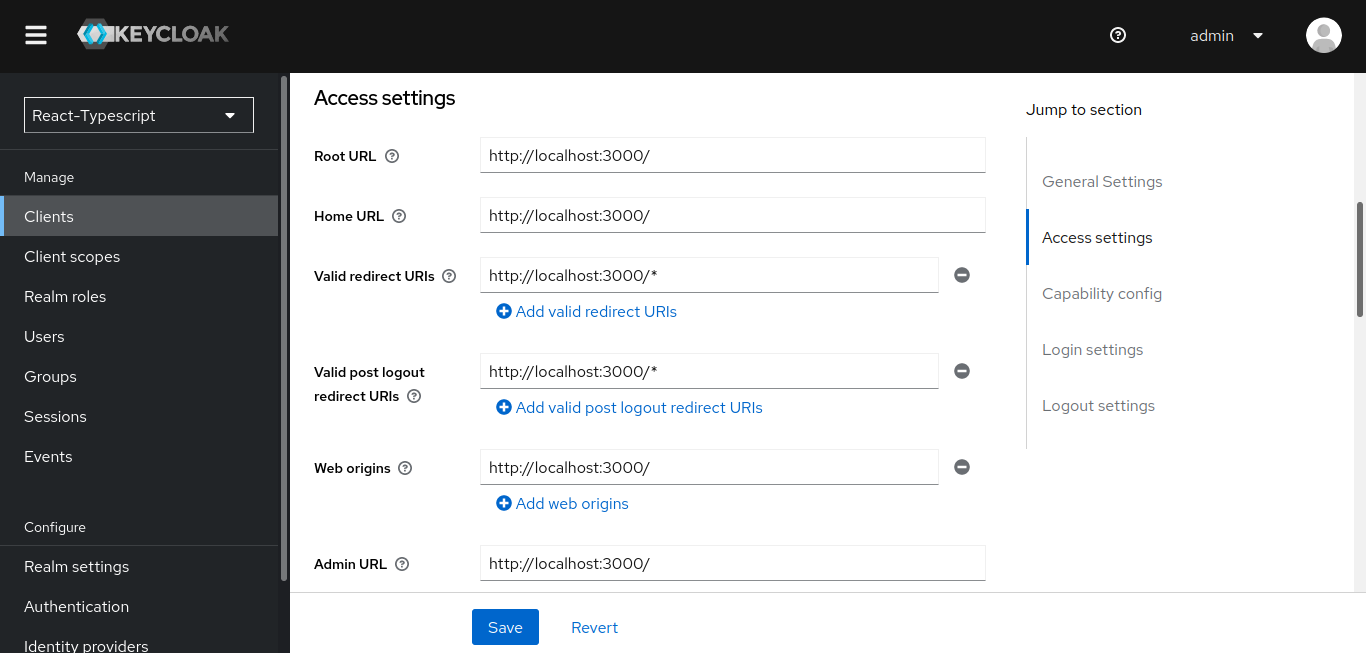
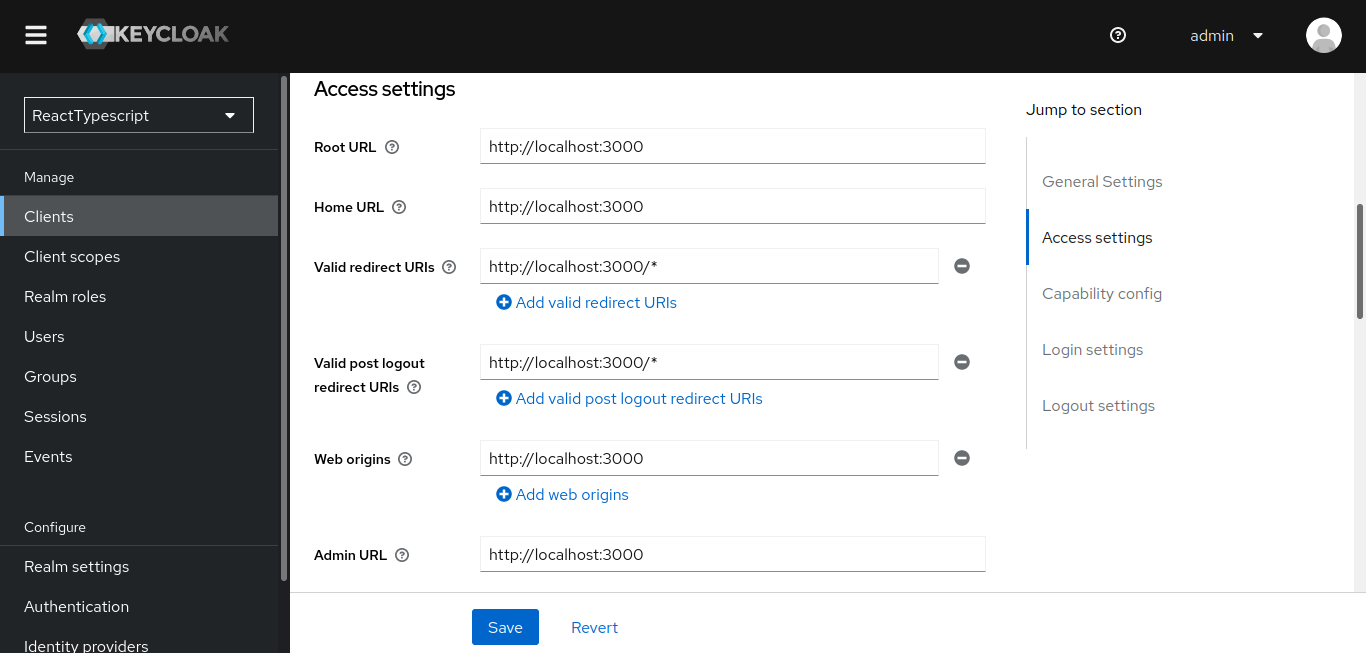
Update file.

diff --git a/src/keycloak.ts b/src/keycloak.ts
@@ -1,7 +1,7 @@
 import Keycloak from "keycloak-js";
 
 const keycloakConfig = {
-  realm: "React-Typescript",
+  realm: "ReactTypescript",
   url: "http://0.0.0.0:8080/",
   clientId: "react-ts",
 };

diff --git a/README.md b/README.md
@@ -106,7 +106,6 @@ export default keycloak;
 
 ```react
     npm install --save @react-keycloak/web
-    npm install --save keycloak
 ```
 
 ## Technology used
@@ -121,5 +120,3 @@ export default keycloak;
 #
 ###### Author : Aniceto Jolela 🥰
  Meu  | [Linkedin](https://www.linkedin.com/in/aniceto-jolela-076547184/))
-
-<p align='center'> 🚧 </p>
